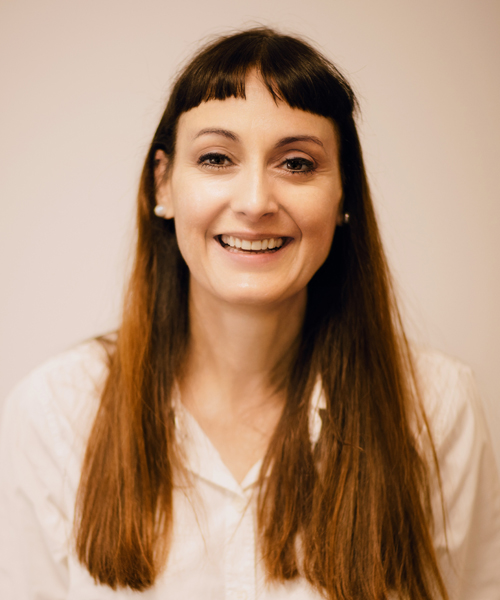
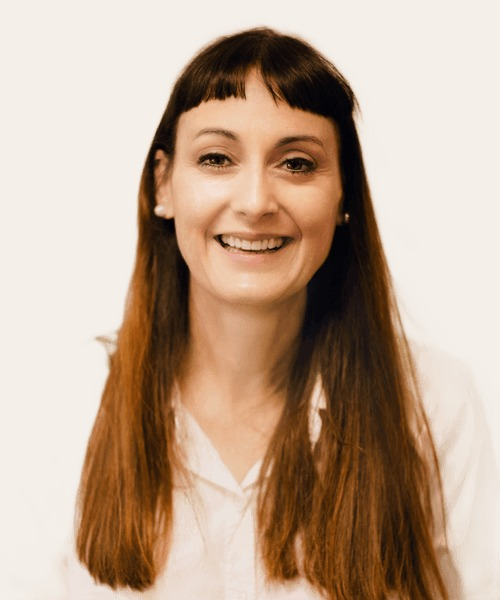
Substitueix fons de totes les fotos de l'equip pel beix de la marca (#F4EFE9)

diff --git a/assets/css/main.css b/assets/css/main.css
@@ -567,7 +567,7 @@ input, select, textarea { font:inherit; }
 .team-card__avatar--h { background:linear-gradient(135deg,#7A4A5A,#B27A8A); }
 
 .team-card__photo { width:120px; flex-shrink:0; overflow:hidden; background:var(--beix-bg); }
-.team-card__photo img { width:100%; height:100%; object-fit:cover; object-position:top; display:block; mix-blend-mode:multiply; }
+.team-card__photo img { width:100%; height:100%; object-fit:cover; object-position:top; display:block; }
 .team-card__initials { font-family:var(--font-display); font-size:1.5rem; font-weight:500; color:var(--beix-text); }
 
 .team-card__body { padding:clamp(20px,2.5vw,28px); flex:1; display:flex; flex-direction:column; gap:1rem; }
